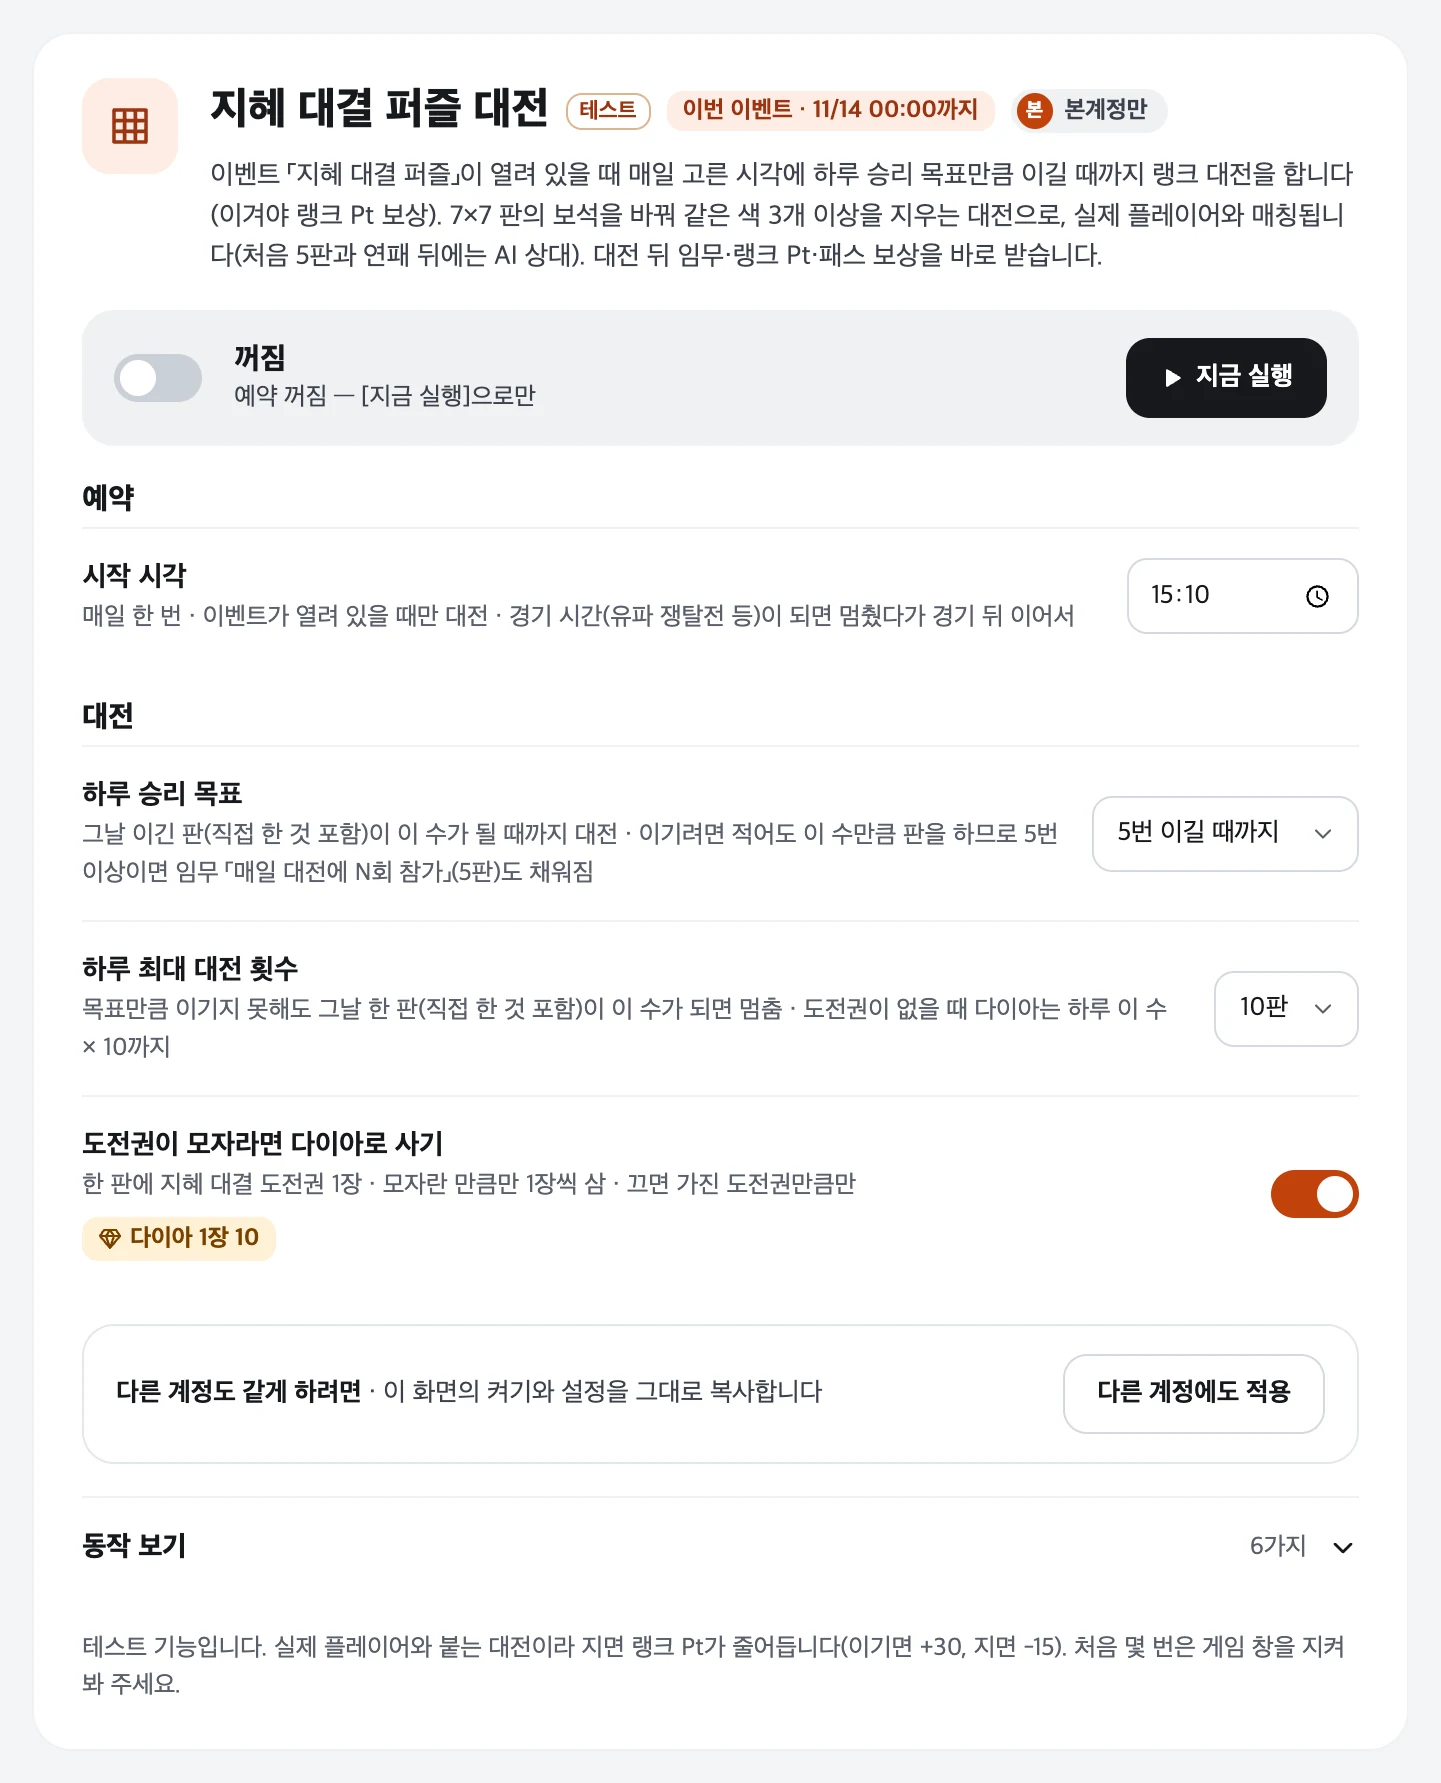
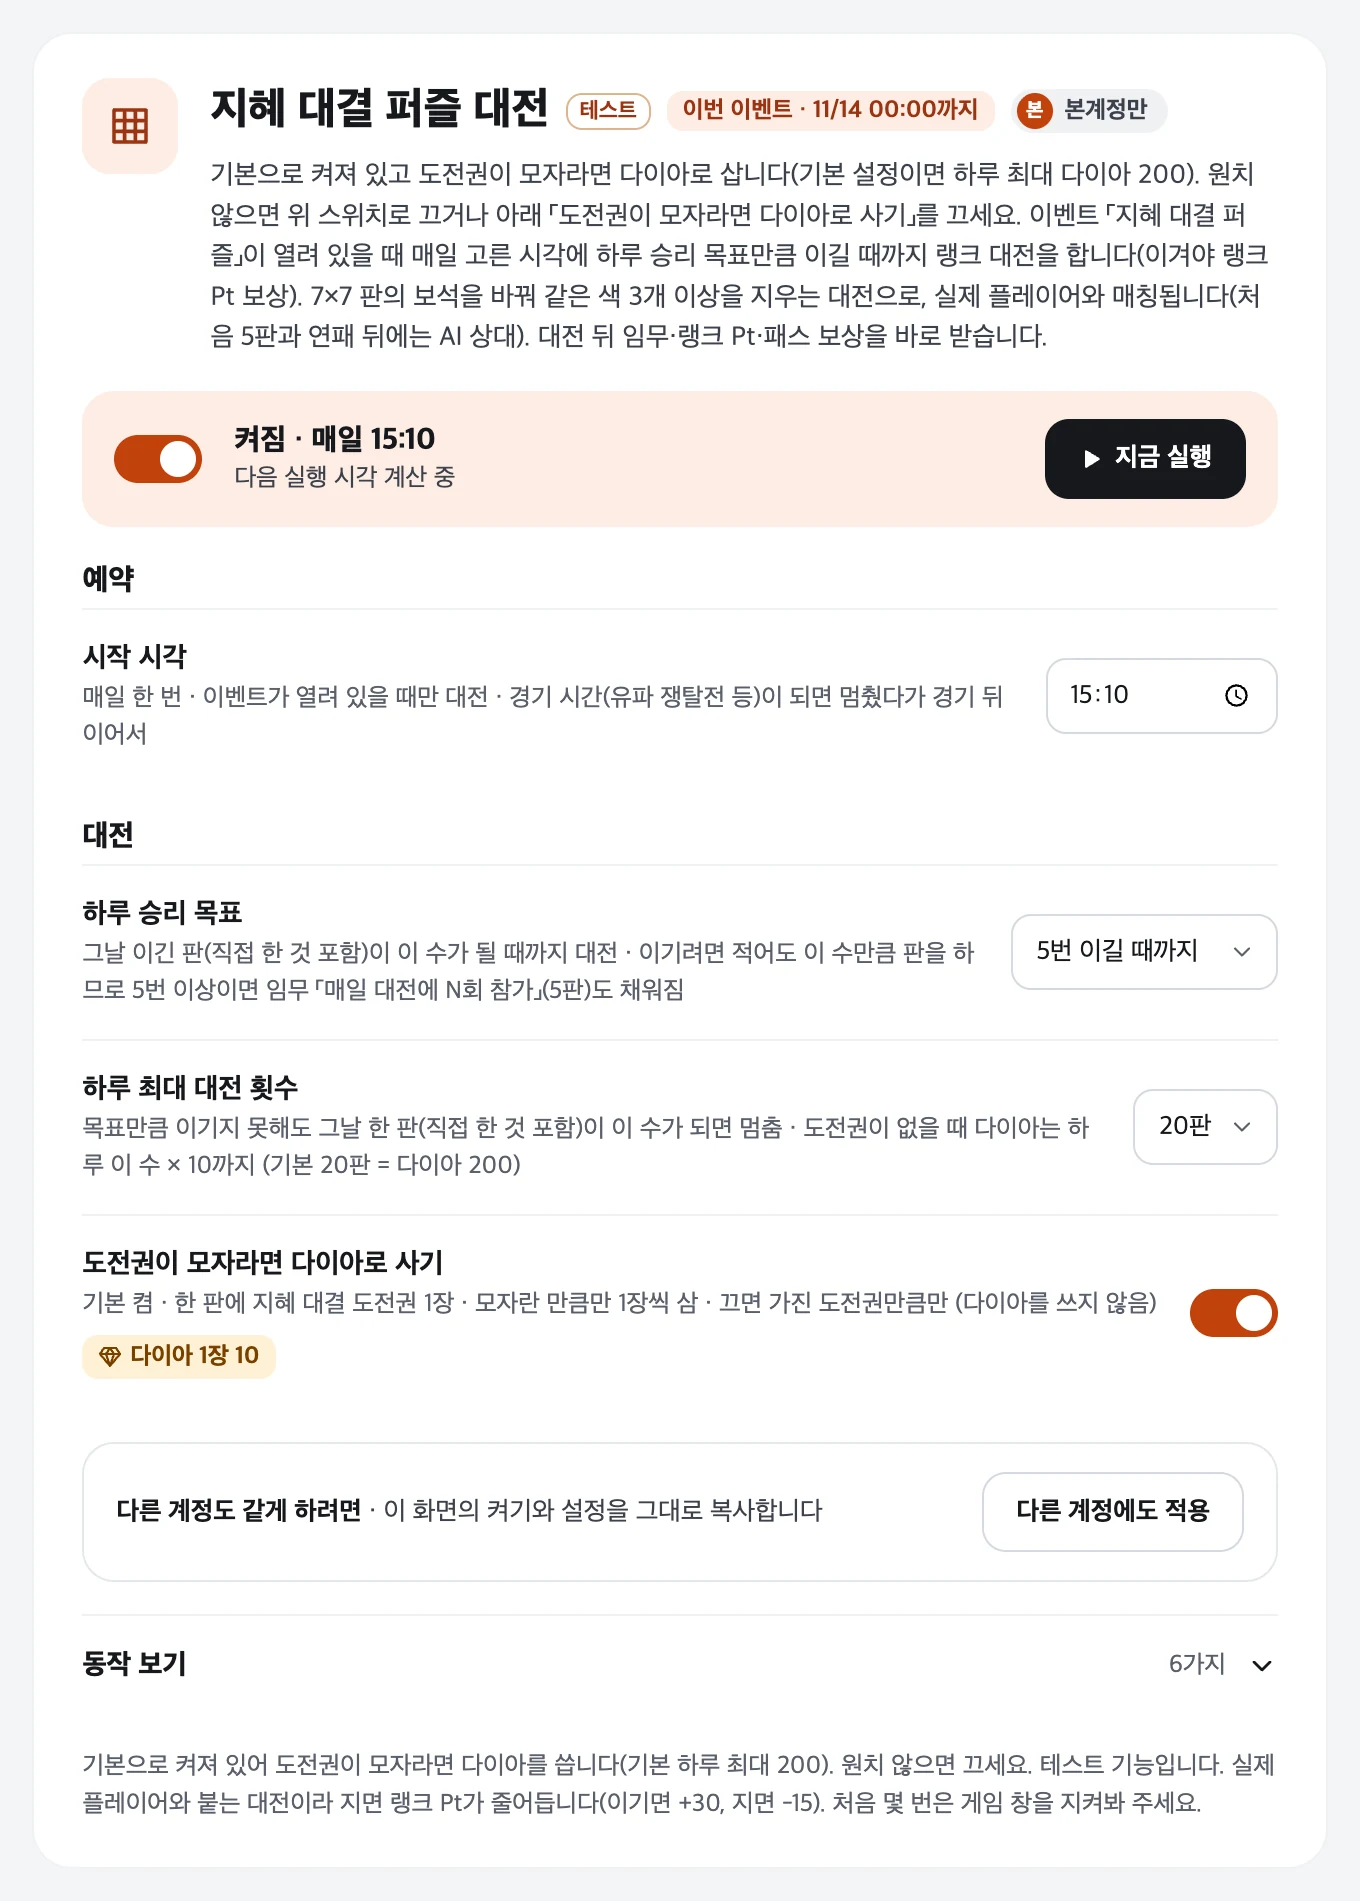
v1.5.120 홈페이지: 지혜 대결 퍼즐 대전 기본 켬·하루 최대 20판(다이아 하루 최대 200, 원치 않으면 끄기 안내), 처음엔 모두 꺼짐의 예외, 설정 화면 이미지
Claude-Session: https://claude.ai/code/session_01KmZacAeoiGxHpjKwWGpkTY

diff --git a/docs/features.html b/docs/features.html
@@ -291,13 +291,14 @@
 
       <article class="feat" id="match3">
         <div>
-          <div class="feat-h"><i data-i="puzzle"></i><div><h3>지혜 대결 퍼즐 대전</h3><div class="when">켜면 이벤트 기간(11/11~11/14) 매일 고른 시각 (기본 15:10) · [지금 실행]</div></div></div>
+          <div class="feat-h"><i data-i="puzzle"></i><div><h3>지혜 대결 퍼즐 대전</h3><div class="when">이벤트 기간(11/11~11/14) 매일 고른 시각 (기본 15:10, 기본 켬) · [지금 실행]</div></div></div>
           <div class="tags"><span class="chip warn">테스트</span><span class="chip ok">일반 등급부터</span><span class="chip dia">도전권 1장 10다이아</span></div>
-          <p>이벤트 「지혜 대결 퍼즐」의 <b>랭크 대전</b>을 합니다(기본 꺼짐, 기능 설정 → 이벤트). 7×7 판에서 이웃한 두 보석을 바꿔 같은 색 3개 이상을 지우는 대전으로, 실제 플레이어와 매칭됩니다(처음 5판과 연패 뒤에는 AI 상대). 먼저 무료 패키지·끝난 임무·패스 보상을 받고, 하루 승리 목표만큼 이길 때까지 대전한 뒤 임무·랭크 Pt·패스 보상을 받습니다. 무료 보상은 이 기능을 켜지 않아도 일일 보상이 받습니다.</p>
+          <div class="callout warn"><span data-i="alert"></span><div><b>기본으로 켜져 있습니다(v1.5.120부터).</b> 하루 최대 20판이고 도전권이 모자라면 다이아로 사므로 <b>다이아를 하루 최대 200까지</b> 씁니다. 원치 않으면 기능 설정 → 이벤트 → 지혜 대결 퍼즐 대전의 스위치로 끄거나, 「도전권이 모자라면 다이아로 사기」를 끄세요(가진 도전권만큼만). v1.5.119에서 건드리지 않은 설정(꺼짐·10판)은 업데이트 때 켜짐·20판으로 바뀝니다.</div></div>
+          <p>이벤트 「지혜 대결 퍼즐」의 <b>랭크 대전</b>을 합니다. 7×7 판에서 이웃한 두 보석을 바꿔 같은 색 3개 이상을 지우는 대전으로, 실제 플레이어와 매칭됩니다(처음 5판과 연패 뒤에는 AI 상대). 먼저 무료 패키지·끝난 임무·패스 보상을 받고, 하루 승리 목표만큼 이길 때까지 대전한 뒤 임무·랭크 Pt·패스 보상을 받습니다. 무료 보상은 이 기능을 켜지 않아도 일일 보상이 받습니다.</p>
           <ul>
             <li><b>하루 승리 목표</b>(기본 5번): 그날 이긴 판(직접 한 것 포함)이 이 수가 될 때까지 대전합니다. 5번 이상이면 임무 「매일 대전에 N회 참가」(5판)도 채워집니다.</li>
-            <li><b>하루 최대 대전 횟수</b>(기본 10판): 목표만큼 이기지 못해도 그날 한 판이 이 수가 되면 멈춥니다.</li>
-            <li><b>도전권이 모자라면 다이아로 사기</b>(기본 켬): 한 판에 지혜 대결 도전권 1장이 들고, 모자란 만큼만 1장씩 10다이아로 삽니다(기본 설정이면 하루 최대 100다이아). 끄면 가진 도전권만큼만 합니다.</li>
+            <li><b>하루 최대 대전 횟수</b>(기본 20판): 목표만큼 이기지 못해도 그날 한 판이 이 수가 되면 멈춥니다.</li>
+            <li><b>도전권이 모자라면 다이아로 사기</b>(기본 켬): 한 판에 지혜 대결 도전권 1장이 들고, 모자란 만큼만 1장씩 10다이아로 삽니다(기본 설정이면 하루 최대 200다이아). 끄면 가진 도전권만큼만 합니다.</li>
             <li>내 차례마다 판을 읽어 가장 많이 지우는 두 보석을 바꿉니다(특수 보석을 터뜨리거나 만드는 수를 더 높게 봄). <b>영부</b>(검희 스킬)가 차면 수를 두기 전에 쓰고, 공용 스킬(새로 고침·망치)은 쓰지 않습니다.</li>
             <li>지면 랭크 Pt가 줄어듭니다(이기면 +30, 지면 -15, 0 아래로는 안 내려감). 랭크 Pt 보상은 이겨야 받습니다. 매칭이 2분 안에 안 잡히면 취소하고 두 번까지 다시 합니다.</li>
             <li>경기(유파 쟁탈전 등) 시간이 되면 멈췄다가 경기 뒤 이어서 합니다. 그 시각에 앱·컴퓨터가 꺼져 있었으면 그날 자정 전까지 켜지는 대로 시작합니다.</li>

diff --git a/docs/guide.html b/docs/guide.html
@@ -144,7 +144,7 @@
         <li><b>평소 쓰던 방법(Google·Apple·Passkey·전화번호)으로 로그인합니다.</b><span class="muted">그 계정으로 바뀝니다.</span></li>
         <li><b>계정 관리에 ✓ 캐릭터 이름 [서버]가 보이면 준비 완료입니다.</b><span class="muted">로그인은 다음에도 유지됩니다.</span></li>
       </ol>
-      <div class="note"><b>처음엔 모두 꺼짐</b> 처음 설치하면 모든 기능이 꺼져 있습니다(v1.5.95부터, 새로 추가한 계정도 같음). 기능 설정에서 기능마다 하는 일을 보고 쓸 기능을 켜세요. 이미 쓰던 설정은 업데이트해도 그대로입니다.</div>
+      <div class="note"><b>처음엔 모두 꺼짐</b> 처음 설치하면 모든 기능이 꺼져 있습니다(v1.5.95부터, 새로 추가한 계정도 같음, 이벤트 기능 「지혜 대결 퍼즐 대전」만 예외로 켜짐). 기능 설정에서 기능마다 하는 일을 보고 쓸 기능을 켜세요. 이미 쓰던 설정은 업데이트해도 그대로입니다.</div>
       <div class="note warn"><b>주의</b> 새로 추가한 계정(처음 설치한 뒤의 첫 계정 포함)은 위쪽 탭에 「로그인 전」이 표시되고, <kbd>로그인</kbd>으로 연동할 때까지 예약도 실행하지 않습니다(연동되면 그때부터 예약대로). 로그인되지 않은 계정은 「로그인 확인 필요」가 표시되고, 실행해도 바로 멈춥니다. 두 계정에 같은 G123 계정으로 로그인하면 ⚠ 경고가 뜨고 둘을 동시에 실행하지 않습니다(같은 계정에 두 창이 접속하면 서로 끊김). 한쪽이 실행 중일 때 다른 쪽 예약 시각이 되면 끝나길 기다렸다가 바로 이어서 합니다(v1.5.115까지는 그 예약을 앱을 다시 켤 때까지 하지 않던 문제를 v1.5.116에서 고침).<br>계정마다 <b>연결된 캐릭터</b>(처음 연동을 확인한 캐릭터)를 기억합니다. 게임이 <b>다른 캐릭터</b>(같은 G123 계정의 다른 서버나 다른 G123 계정)로 열려 있으면 그 캐릭터에 재화를 쓰지 않도록 그 계정의 예약을 하지 않고, 기록에 ⚠ 한 줄과 알림을 한 번 남깁니다. 게임에서 원래 캐릭터로 바꾸면 5분 안에 알아채고 못 한 예약을 이어서 합니다. 지금 캐릭터를 이 계정에 쓰려면 계정 관리에서 <kbd>다시 로그인</kbd>을 누르세요.</div>
     </section>
 

diff --git a/docs/android.html b/docs/android.html
@@ -289,7 +289,7 @@
       <h2>5. 기능 켜기</h2>
       <div class="steps-fig" data-s id="turn-on-list" data-st="기능 설정에서 쓸 기능 켜기" data-k="기능목록 스위치 뒤로">
         <div>
-          <p>처음 설치하면 <b>모든 기능이 꺼져 있습니다</b>(이미 쓰던 설정은 업데이트해도 그대로). 아래 탭의 <b>기능 설정</b>에서 기능마다 하는 일을 보고 쓸 기능의 스위치를 켭니다. 기능 이름을 누르면 그 기능의 설정(시각·횟수·다이아 사용 등)이 열리고, <kbd>‹ 기능 목록</kbd>이나 휴대폰 <kbd>뒤로</kbd>로 목록에 돌아옵니다.</p>
+          <p>처음 설치하면 <b>모든 기능이 꺼져 있습니다</b>(이미 쓰던 설정은 업데이트해도 그대로, 이벤트 기능 「지혜 대결 퍼즐 대전」만 예외로 켜짐). 아래 탭의 <b>기능 설정</b>에서 기능마다 하는 일을 보고 쓸 기능의 스위치를 켭니다. 기능 이름을 누르면 그 기능의 설정(시각·횟수·다이아 사용 등)이 열리고, <kbd>‹ 기능 목록</kbd>이나 휴대폰 <kbd>뒤로</kbd>로 목록에 돌아옵니다.</p>
           <p>무엇을 켤지 모르겠으면 PC 설명서의 <a href="guide.html#first">처음 설정 추천</a>을 보세요. 기능마다 하는 일은 <a href="features.html">기능 안내</a>에 있습니다.</p>
           <p class="muted small">설정은 바로 저장됩니다. 기능 설정 아래 <kbd>다른 계정에도 적용</kbd>으로 같은 설정을 다른 게임 계정에 복사할 수 있습니다.</p>
         </div>
